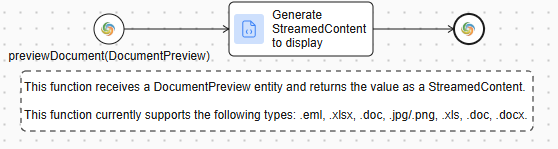
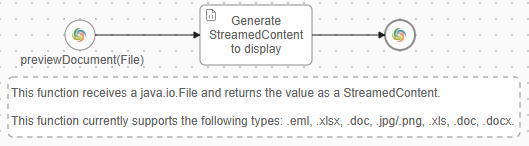
MARP-2848 Convert for callable to use file instead of DocumentPreview entity

diff --git a/doc-factory-test/src_test/com/axonivy/utils/docfactory/preview/DocumentPreviewServiceTest.java b/doc-factory-test/src_test/com/axonivy/utils/docfactory/preview/DocumentPreviewServiceTest.java
@@ -2,27 +2,30 @@ package com.axonivy.utils.docfactory.preview;
 
 import static org.junit.jupiter.api.Assertions.assertEquals;
 import static org.junit.jupiter.api.Assertions.assertNotNull;
+import static org.junit.jupiter.api.Assertions.assertTrue;
 
-import java.io.ByteArrayOutputStream;
+import java.io.ByteArrayInputStream;
+import java.io.File;
 import java.lang.reflect.Field;
 import java.util.Map;
 
 import org.junit.jupiter.api.BeforeAll;
 import org.junit.jupiter.api.Test;
+import org.primefaces.model.DefaultStreamedContent;
 import org.primefaces.model.StreamedContent;
 
 import ch.ivyteam.ivy.addons.docfactory.aspose.AsposeProduct;
 import ch.ivyteam.ivy.addons.docfactory.aspose.LicenseLoader;
-import ch.ivyteam.ivy.addons.docfactory.entity.DocumentPreview;
+
 import static ch.ivyteam.ivy.addons.docfactory.DocFactoryConstants.PDF_CONTENT_TYPE;
 import static ch.ivyteam.ivy.addons.docfactory.DocFactoryConstants.XLSX_EXTENSION;
 import static ch.ivyteam.ivy.addons.docfactory.DocFactoryConstants.TXT_EXTENSION;
 import static ch.ivyteam.ivy.addons.docfactory.DocFactoryConstants.DOCX_EXTENSION;
 import static ch.ivyteam.ivy.addons.docfactory.DocFactoryConstants.EML_EXTENSION;
+import static ch.ivyteam.ivy.addons.docfactory.DocFactoryConstants.TEXT_CONTENT_TYPE;
 import static ch.ivyteam.ivy.addons.docfactory.DocFactoryConstants.XLSX_CONTENT_TYPE;
 import static ch.ivyteam.ivy.addons.docfactory.DocFactoryConstants.WORD_CONTENT_TYPE;
 import static ch.ivyteam.ivy.addons.docfactory.DocFactoryConstants.EML_CONTENT_TYPE;
-import static ch.ivyteam.ivy.addons.docfactory.DocFactoryConstants.TEXT_CONTENT_TYPE;
 
 public class DocumentPreviewServiceTest {
   private static final String TEST_FILE_NAME = "test";
@@ -41,60 +44,102 @@ public class DocumentPreviewServiceTest {
 
   @Test
   void testGenerateStreamedContent_ExcelXlsx() throws Exception {
-    String fileName = TEST_FILE_NAME.concat(XLSX_EXTENSION);
-    var workbook = new com.aspose.cells.Workbook();
-    ByteArrayOutputStream out = new ByteArrayOutputStream();
-    workbook.save(out, com.aspose.cells.SaveFormat.XLSX);
-
-    DocumentPreview preview = new DocumentPreview(fileName, XLSX_CONTENT_TYPE, out.toByteArray());
-    StreamedContent content = documentPreviewService.generateStreamedContent(preview);
+    File tempFile = File.createTempFile(TEST_FILE_NAME, XLSX_EXTENSION);
+    StreamedContent content = documentPreviewService.generateStreamedContent(tempFile);
 
     assertNotNull(content);
-    assertEquals(fileName, content.getName());
+    assertTrue(content.getName().contains(TEST_FILE_NAME));
     assertEquals(PDF_CONTENT_TYPE, content.getContentType());
+    tempFile.deleteOnExit();
   }
 
   @Test
   void testGenerateStreamedContent_WordDocx() throws Exception {
-    String fileName = TEST_FILE_NAME.concat(DOCX_EXTENSION);
-    var doc = new com.aspose.words.Document();
-    doc.getFirstSection().getBody().appendParagraph("Test Word");
-    ByteArrayOutputStream out = new ByteArrayOutputStream();
-    doc.save(out, com.aspose.words.SaveFormat.DOCX);
-
-    DocumentPreview preview = new DocumentPreview(fileName, WORD_CONTENT_TYPE, out.toByteArray());
-    StreamedContent content = documentPreviewService.generateStreamedContent(preview);
-
+    File tempFile = File.createTempFile(TEST_FILE_NAME, DOCX_EXTENSION);
+    StreamedContent content = documentPreviewService.generateStreamedContent(tempFile);
     assertNotNull(content);
-    assertEquals(fileName, content.getName());
+    assertTrue(content.getName().contains(TEST_FILE_NAME));
     assertEquals(PDF_CONTENT_TYPE, content.getContentType());
+    tempFile.deleteOnExit();
   }
 
   @Test
   void testGenerateStreamedContent_Eml() throws Exception {
-    String fileName = TEST_FILE_NAME.concat(EML_EXTENSION);
-    var mail = new com.aspose.email.MailMessage();
-    mail.setSubject("Test Mail");
-    ByteArrayOutputStream out = new ByteArrayOutputStream();
-    mail.save(out, com.aspose.email.SaveOptions.getDefaultEml());
-
-    DocumentPreview preview = new DocumentPreview(fileName, EML_CONTENT_TYPE, out.toByteArray());
-    StreamedContent content = documentPreviewService.generateStreamedContent(preview);
-    mail.close();
+    File tempFile = File.createTempFile(TEST_FILE_NAME, EML_EXTENSION);
+    StreamedContent content = documentPreviewService.generateStreamedContent(tempFile);
     assertNotNull(content);
-    assertEquals(fileName, content.getName());
+    assertTrue(content.getName().contains(TEST_FILE_NAME));
     assertEquals(PDF_CONTENT_TYPE, content.getContentType());
+    tempFile.deleteOnExit();
   }
 
   @Test
   void testGenerateStreamedContent_UnsupportedFile() throws Exception {
-    String fileName = TEST_FILE_NAME.concat(TXT_EXTENSION);
-    byte[] dummy = "Just a text".getBytes();
-    DocumentPreview preview = new DocumentPreview(fileName, TEXT_CONTENT_TYPE, dummy);
-    StreamedContent content = documentPreviewService.generateStreamedContent(preview);
+    File tempFile = File.createTempFile(TEST_FILE_NAME, TXT_EXTENSION);
+    StreamedContent content = documentPreviewService.generateStreamedContent(tempFile);
 
     assertNotNull(content);
-    assertEquals(fileName, content.getName());
+    assertTrue(content.getName().contains(TEST_FILE_NAME));
     assertEquals(TEXT_CONTENT_TYPE, content.getContentType());
+    tempFile.deleteOnExit();
+  }
+
+
+
+  @Test
+  void testGenerateStreamedContent_FromStreamedContent_Xlsx() throws Exception {
+    String fileName = TEST_FILE_NAME.concat(XLSX_EXTENSION);
+    byte[] dummyContent = "excel".getBytes();
+    StreamedContent input = mockStreamContent(fileName, XLSX_CONTENT_TYPE, dummyContent);
+
+    StreamedContent result = documentPreviewService.generateStreamedContent(input);
+
+    assertNotNull(result);
+    assertEquals(fileName, result.getName());
+    assertEquals(PDF_CONTENT_TYPE, result.getContentType());
+  }
+
+  @Test
+  void testGenerateStreamedContent_FromStreamedContent_Docx() throws Exception {
+    String fileName = TEST_FILE_NAME.concat(DOCX_EXTENSION);
+    byte[] dummyContent = "word".getBytes();
+    StreamedContent input = mockStreamContent(fileName, WORD_CONTENT_TYPE, dummyContent);
+
+    StreamedContent result = documentPreviewService.generateStreamedContent(input);
+
+    assertNotNull(result);
+    assertEquals(fileName, result.getName());
+    assertEquals(PDF_CONTENT_TYPE, result.getContentType());
+  }
+
+  @Test
+  void testGenerateStreamedContent_FromStreamedContent_Eml() throws Exception {
+    String fileName = TEST_FILE_NAME.concat(EML_EXTENSION);
+    byte[] dummyContent = "mail".getBytes();
+    StreamedContent input = mockStreamContent(fileName, EML_CONTENT_TYPE, dummyContent);
+
+    StreamedContent result = documentPreviewService.generateStreamedContent(input);
+
+    assertNotNull(result);
+    assertEquals(fileName, result.getName());
+    assertEquals(PDF_CONTENT_TYPE, result.getContentType());
+  }
+
+  @Test
+  void testGenerateStreamedContent_FromStreamedContent_Unsupported() throws Exception {
+    String fileName = TEST_FILE_NAME.concat(TXT_EXTENSION);
+    byte[] dummyContent = "text".getBytes();
+    StreamedContent input = mockStreamContent(fileName, TEXT_CONTENT_TYPE, dummyContent);
+
+    StreamedContent result = documentPreviewService.generateStreamedContent(input);
+
+    assertNotNull(result);
+    assertEquals(fileName, result.getName());
+    assertEquals(TEXT_CONTENT_TYPE, result.getContentType());
+  }
+
+  private StreamedContent mockStreamContent(String fileName, String contentType, byte[] data) {
+    return DefaultStreamedContent.builder().name(fileName).contentType(contentType)
+        .stream(() -> new ByteArrayInputStream(data)).build();
   }
 }

diff --git a/doc-factory-demos/src/ch/ivyteam/ivy/docFactoryExamples/DemoDocumentPreviewService.java b/doc-factory-demos/src/ch/ivyteam/ivy/docFactoryExamples/DemoDocumentPreviewService.java
@@ -1,37 +1,51 @@
 package ch.ivyteam.ivy.docFactoryExamples;
 
+import java.io.ByteArrayInputStream;
+import java.io.FileInputStream;
+import java.io.FileNotFoundException;
 import java.io.IOException;
 import java.io.InputStream;
 import java.nio.file.Files;
 
 import org.primefaces.event.FileUploadEvent;
+import org.primefaces.model.DefaultStreamedContent;
 import org.primefaces.model.StreamedContent;
 
-import ch.ivyteam.ivy.addons.docfactory.entity.DocumentPreview;
 import ch.ivyteam.ivy.environment.Ivy;
 import ch.ivyteam.ivy.persistence.PersistencyException;
 import ch.ivyteam.ivy.process.call.SubProcessCall;
 import ch.ivyteam.ivy.process.call.SubProcessCallResult;
-import ch.ivyteam.ivy.scripting.objects.File;
 import ch.ivyteam.ivy.security.exec.Sudo;
 import ch.ivyteam.ivy.workflow.ICase;
 import ch.ivyteam.ivy.workflow.document.IDocument;
 import ch.ivyteam.ivy.workflow.document.IDocumentService;
 
 public class DemoDocumentPreviewService {
+  
+  private static final String PREVIEW_DOCUMENT_PROCESS_PATH = "Functional Processes/previewDocument";
+  private static final String STREAMED_CONTENT = "streamedContent";
 
   public static IDocument handleFileUpload(FileUploadEvent event) throws IOException {
     return upload(event.getFile().getFileName(), event.getFile().getInputStream());
   }
 
   public static StreamedContent previewDocument(IDocument document) throws IOException {
-    File file = new File(document.getPath().asString());
-    byte[] fileContent = documentsOf(Ivy.wfCase()).get(document.uuid()).read().asStream().readAllBytes();
-    String contentType = Files.probeContentType(file.getJavaFile().toPath());
-    var entity = new DocumentPreview(document.getName(), contentType, fileContent);
-    SubProcessCallResult callResult = SubProcessCall.withPath("Functional Processes/previewDocument")
-        .withStartName("previewDocument").withParam("documentReview", entity).call();
-    return (StreamedContent) callResult.get("streamedContent");
+    SubProcessCallResult callResult = 
+        SubProcessCall.withPath(PREVIEW_DOCUMENT_PROCESS_PATH)
+            .withStartName("previewDocument")
+            .withParam("file", document.read().asJavaFile())
+            .call();
+    return (StreamedContent) callResult.get(STREAMED_CONTENT);
+  }
+
+  public static StreamedContent previewDocumentViaStreamContent(IDocument document) throws IOException {
+    SubProcessCallResult callResult =
+        SubProcessCall.withPath(PREVIEW_DOCUMENT_PROCESS_PATH)
+            .withStartName("previewDocumentByStream")
+            .withParam(STREAMED_CONTENT, fileToStreamedContent(document.read().asJavaFile()))
+            .call();
+
+    return (StreamedContent) callResult.get(STREAMED_CONTENT);
   }
 
   public static IDocument upload(String filename, InputStream content) {
@@ -50,4 +64,23 @@ public class DemoDocumentPreviewService {
       return null;
     }
   }
+
+  private static StreamedContent fileToStreamedContent(java.io.File file) throws IOException, java.io.IOException {
+    String fileName = file.getName();
+    String contentType = Files.probeContentType(file.toPath());
+
+    return DefaultStreamedContent.builder()
+        .name(fileName)
+        .contentType(contentType != null ? contentType : "application/octet-stream")
+        .stream(() -> {
+          try {
+            return new FileInputStream(file);
+          } catch (FileNotFoundException e) {
+            Ivy.log().error(e.getMessage());
+          }
+          return new ByteArrayInputStream(new byte[0]);
+        }).build();
+  }
+
+ 
 }

diff --git a/doc-factory/src/com/axonivy/utils/docfactory/preview/DocumentPreviewService.java b/doc-factory/src/com/axonivy/utils/docfactory/preview/DocumentPreviewService.java
@@ -2,7 +2,11 @@ package com.axonivy.utils.docfactory.preview;
 
 import java.io.ByteArrayInputStream;
 import java.io.ByteArrayOutputStream;
+import java.io.File;
+import java.io.FileInputStream;
+import java.io.IOException;
 import java.io.InputStream;
+import java.nio.file.Files;
 
 import org.primefaces.model.DefaultStreamedContent;
 import org.primefaces.model.StreamedContent;
@@ -17,7 +21,7 @@ import com.aspose.words.SaveFormat;
 
 import ch.ivyteam.ivy.addons.docfactory.aspose.AsposeProduct;
 import ch.ivyteam.ivy.addons.docfactory.aspose.LicenseLoader;
-import ch.ivyteam.ivy.addons.docfactory.entity.DocumentPreview;
+import ch.ivyteam.ivy.environment.Ivy;
 
 import static ch.ivyteam.ivy.addons.docfactory.DocFactoryConstants.PDF_CONTENT_TYPE;
 import static ch.ivyteam.ivy.addons.docfactory.DocFactoryConstants.XLSX_EXTENSION;
@@ -36,10 +40,25 @@ public class DocumentPreviewService {
     return INSTANCE;
   }
 
-  public StreamedContent generateStreamedContent(DocumentPreview documentReview) throws Exception {
-    String fileName = documentReview.getFileName();
-    String contentType = documentReview.getContentType();
-    byte[] fileContent = documentReview.getFileContent();
+  public StreamedContent generateStreamedContent(File file) throws Exception {
+    String fileName = file.getName();
+    String contentType = Files.probeContentType(file.toPath());
+    byte[] fileContent = getDataFromFile(file);
+    return convertToStreamContent(fileName, fileContent, contentType);
+  }
+
+  public StreamedContent generateStreamedContent(StreamedContent streamedContent) throws Exception {
+    String fileName = streamedContent.getName();
+    byte[] fileContent;
+    try (InputStream input = streamedContent.getStream().get()) {
+      fileContent = input.readAllBytes();
+    }
+    String contentType = streamedContent.getContentType();
+    return convertToStreamContent(fileName, fileContent, contentType);
+  }
+
+  private StreamedContent convertToStreamContent(String fileName, byte[] fileContent, String contentType)
+      throws Exception {
     StreamedContent content = null;
     if (fileName.endsWith(XLSX_EXTENSION) || fileName.endsWith(XLS_EXTENSION)) {
       LicenseLoader.loadLicenseforProduct(AsposeProduct.CELLS);
@@ -54,6 +73,15 @@ public class DocumentPreviewService {
       content = convertOutputStreamToStreamedContent(fileName, contentType, fileContent);
     }
     return content;
+  }
+
+  private byte[] getDataFromFile(File file) {
+    try (FileInputStream fis = new FileInputStream(file)) {
+      return fis.readAllBytes();
+    } catch (IOException e) {
+      Ivy.log().error(e.getMessage());
+    }
+    return new byte[0];
   }
 
   private StreamedContent convertExcelToPdfStreamedContent(byte[] data, String fileName) throws Exception {

diff --git a/doc-factory-doc/source/doc-factory/callable-processes.rst b/doc-factory-doc/source/doc-factory/callable-processes.rst
@@ -207,26 +207,25 @@ The function named **previewDocument** allows reading documents with specific ty
 
 .. figure:: /_static/images/callable-processes-5.png
 
-.. table:: DocumentPreview attributes
+.. table:: File attribute
 
    +-------------+----------------+----------------------------------------------------------------------------------------+
    | Field       | Type           | Description                                                                            |
    +=============+================+========================================================================================+
-   | fileName    | String         | The name of the file, including its extension (e.g., "report.pdf", "invoice.docx").    |
-   |             |                | This is used to identify and label the file when displaying or processing it.          |
-   +-------------+----------------+----------------------------------------------------------------------------------------+
-   | contentType | String         | The MIME type of the file (e.g., "application/pdf", "image/jpeg". This helps determine |
-   |             |                | how the file should be rendered, either as an image, document, or media file.          |
-   +-------------+----------------+----------------------------------------------------------------------------------------+
-   | fileContent | byte[]         | The raw binary data of the file. This is the actual content that will be converted to  |
-   |             |                | StreamedContent for display using PrimeFaces components like **<p:media>**             |
+   | file        | java.io.File   | The feature accepts a java.io.File object as input. It can parse and process the file  |
+   |             |                | content based on its type.                                                             |
    +-------------+----------------+----------------------------------------------------------------------------------------+
 
-There are four constructors:
+.. figure:: /_static/images/callable-processes-7.png
 
-- The default constructor: :file:`DocumentPreview()`
-- A constructor that accepts file metadata: :file:`DocumentPreview(String fileName, String contentType, byte[] fileContent)`
-- A constructor that accepts a PrimeFaces file upload event: :file:`DocumentPreview(FileUploadEvent event)`
-- A constructor that accepts an uploaded file: :file:`DocumentPreview(UploadedFile file)`
+.. table:: streamedContent attribute
+
+   +-----------------+-------------------------------------+---------------------------------------------------------------+
+   | Field           | Type                                | Description                                                   |
+   +=================+=====================================+===============================================================+
+   | streamedContent | org.primefaces.model.StreamedContent| This feature accepts an org.primefaces.model.StreamedContent  |
+   |                 |                                     | as input. The content of the file is read and, depending on   |
+   |                 |                                     | its type, converted into a PDF document.                      |
+   +-----------------+------------+------------------------+---------------------------------------------------------------+
 
 .. figure:: /_static/images/callable-processes-6.png
